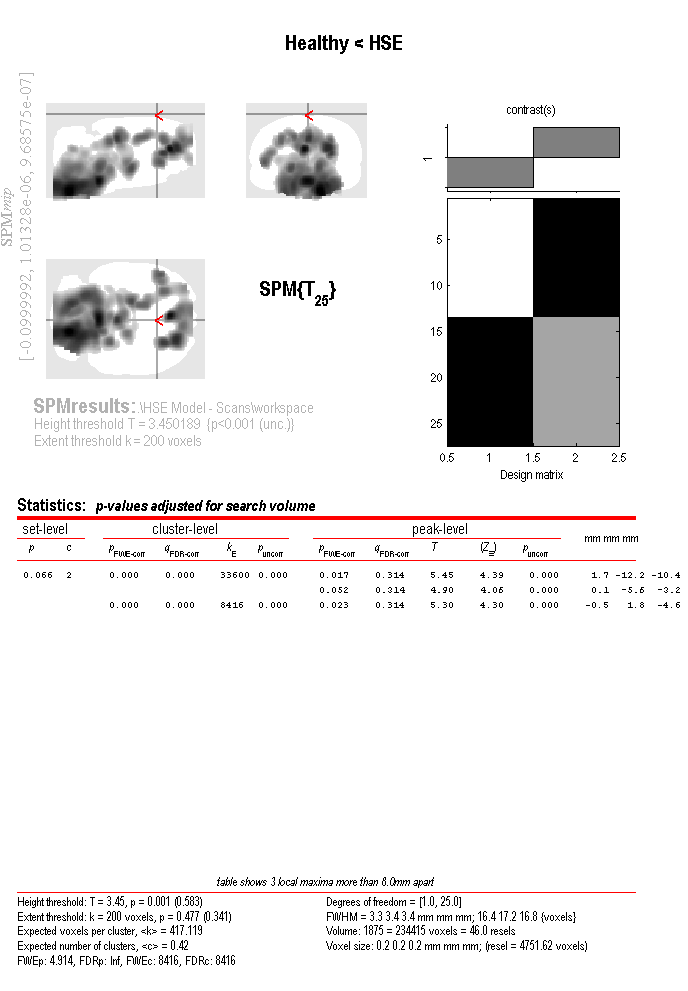
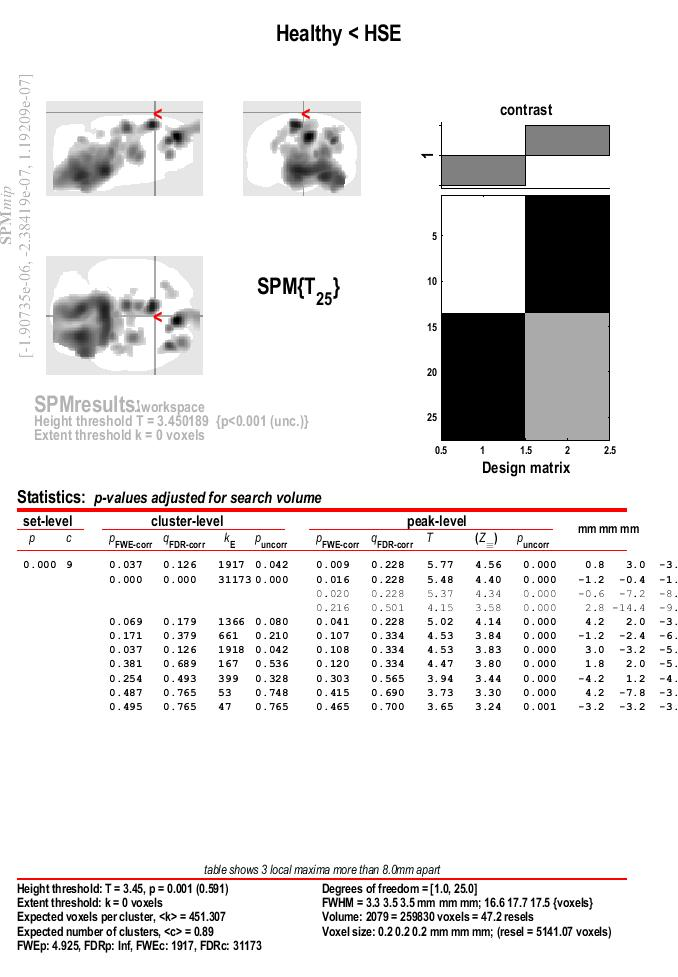
Results in the example section were updated to align with those obtained with the current version of SAMIT (v1.3).

diff --git a/example.md b/example.md
@@ -17,14 +17,14 @@ title: SAMIT Example
 >
 >**Note:** SAMIT interface must remain open during the whole procedure otherwise the default human brain parameters will be used
 
-In this section we will go through all the steps needed to perform the data analysis using a example data set.
+In this section we will go through all the steps needed to perform the data analysis using an example data set.
 
 1. Download the [data set](https://drive.google.com/open?id=0B9ei-7yWXBUBa0VjdVZHcUxwWms) an extract its content into a new folder. The data set consist of [<sup>11</sup>C]PK11195PET brain images obtained from male Wistar rats, including a healthy group (n=13) and an intervention group with Herpes Encephalitis (HSE).
 2. In Matlab, go to the folder where the data set has been extracted. It is always recommended to define a working folder, since several files may be generated by SPM and located by default in the working directory.
 3. Start SPM by typing in Matlab: `spm pet`
 4. From the `Toolbox` menu in SPM interface select `samit`
-5. Select the small animal atlas to be used. In this example select `Schwarz (Schwarz et al. 2006)`
-6. Define the location of the 'origin'. In this data set, the current location of the origin is in the center of the image. This information can be checked using the `Display` option in SPM. In SAMIT interface, select *Bregma* option in the `Reorient / Fix images` section, and click `Reorient` button. Select all the images located in the folders HSE and Healthy.
+5. Select the small animal atlas to be used. In this example select `Schwarz - Rat`
+6. Define the location of the 'origin' of coordinates. In this data set, the current location of the origin is in the center of the image. This information can be checked using the `Display` option in SPM. In SAMIT interface, select *bregma* option in the `Reorient / Fix images` section, and click `Reorient` button. Select all the images located in the folders HSE and Healthy.
 This process will relocate the origin in a position of the image close to where bregma is expected to be. The new images will be located in the same folder than the original ones but with the prefix **r**
 7. An automatic registration of the images was performed during its pre-processing. The alignment between images can be observed by selecting several images with `Check Reg` in the SPM interface. Nevertheless, we are going to perform again the automatic registration process for a better alignment with the template.
    - Select the `almost rigid body` option in the *‘Spatial Registration’* section
@@ -46,7 +46,7 @@ This process will relocate the origin in a position of the image close to where 
 10. Apply smoothing to the image:
    - Click in `Smooth` button from the SPM interface
    - Select the images to smooth (i.e. those with the prefix **m**)
-   - Select the desired FWHM. For this example we can leave the default value (recommend values are between 0.8 and 0.12 mm)
+   - Select the desired FWHM. For this example we can leave the default value of 0.12 mm (i.e. recommend values are between 0.8 and 0.12 mm for rat studies)
    - Select *Implicit masking* to *Yes*. This will avoid the smoothing to go outside the masked region
    - Run the batch: Click on the icon of a green arrow or select `File > Run Batch`
    - The new images will be located in the same folder than the previous ones with the prefix **s**. These are the final images to be used in the voxel-based analysis
@@ -77,10 +77,16 @@ This process will relocate the origin in a position of the image close to where 
    - Title for comparison: leave the current title and press enter
    - Choose the p value adjustment (FWE or uncorrected). In this example select `none`
    - Choose the p value. In this example type: *0.001*
-   - Extent threshold (voxels). In this example type: *200*
-14. Results are presented in a maximum intensity projection (MIP) display on a glass rat brain. Since the MRI rat template was spatially aligned with the Paxinos atlas the resulting coordinates are equivalent to those in the atlas
+   - Extent threshold (voxels). In this example type: *0*
+14. We will explore the results in a "two-steps" approach, using an uncorrected p-threshold at voxel level, and a FWE corrected threshold at cluster level.
+	- Look a the botom of the results section for the value asigned to *FWEc:*, in this case *1917*
+	- Run the results again, clicl on `Contrast > Significance level > Change ... `, witht the same settings as before for the "p value adjustment" and the " p value" itself
+	- Choose the p value adjustment (FWE or uncorrected). Like before, select `none`
+	- Choose the p value. Like before, type: *0.001*
+	- Extent threshold (voxels). At this second step, use the value of the FWE,, in this example *1917*
+14. Results are presented in a maximum intensity projection (MIP) display on a glass rat brain. Since the MRI rat template was spatially aligned with the Paxinos atlas the resulting coordinates are equivalent to those in the atlas. In addition, with only those cluster found to be statistically significant after FWE correction are displayed.
 15. To visualize the results over the MRI  go to `Display > Overlays… > Section` and choose the rat MRI template located in the SAMIT folder
   
-<img src="{{ site.baseurl }}/images/samit_results1.png" alt="SPM Results: Table" style="width:50%;float:left">
+<img src="{{ site.baseurl }}/images/samit_results1.png" alt="SPM Results: Uncorrected (First Step)" style="width:50%;float:left">
 
-<img src="{{ site.baseurl }}/images/samit_results2.png" alt="SPM Results:Overlay MRI" style="width:50%;float:right">
+<img src="{{ site.baseurl }}/images/samit_results2.png" alt="SPM Results: Corrected (Second Step)" style="width:50%;float:right">
